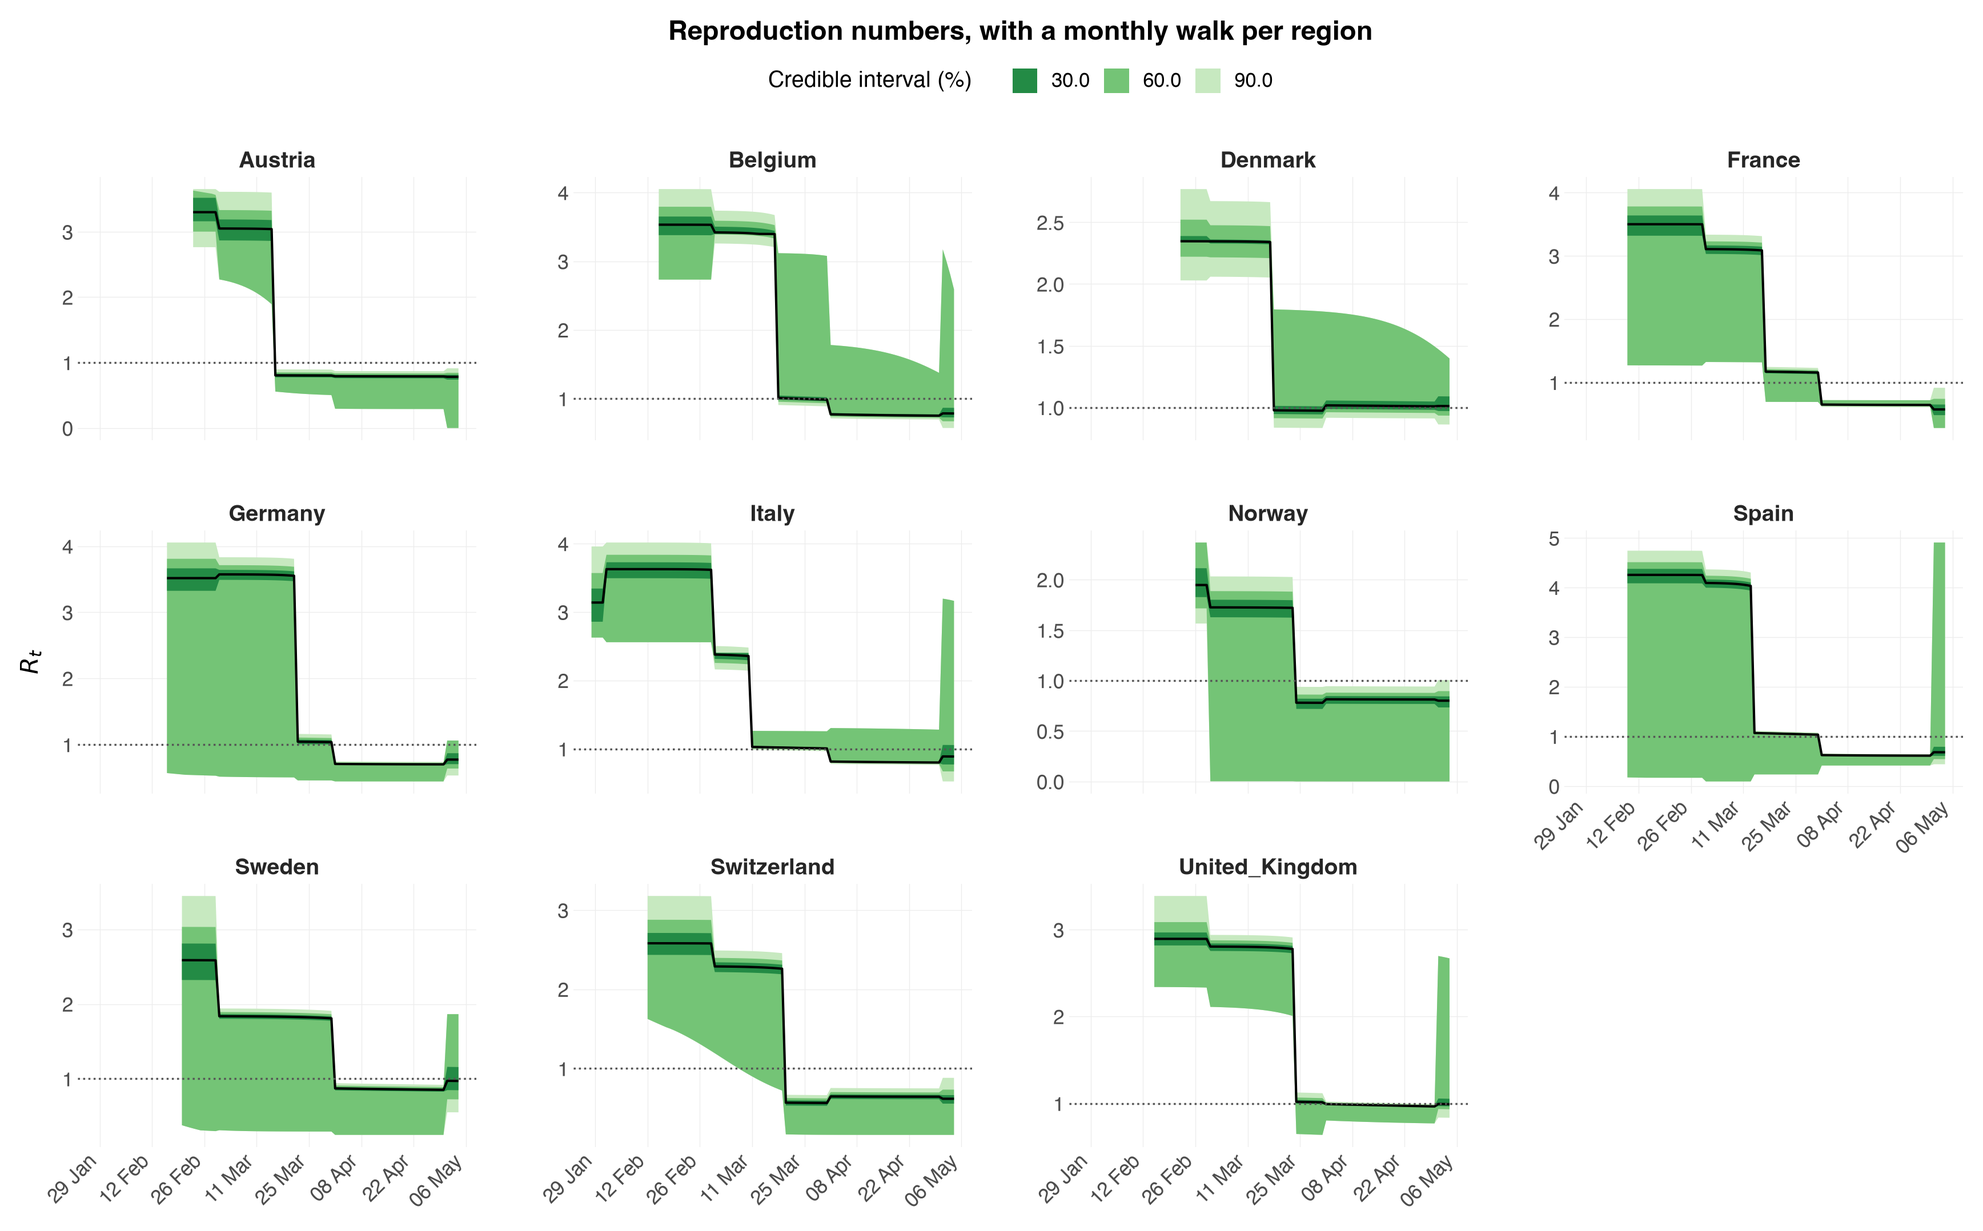
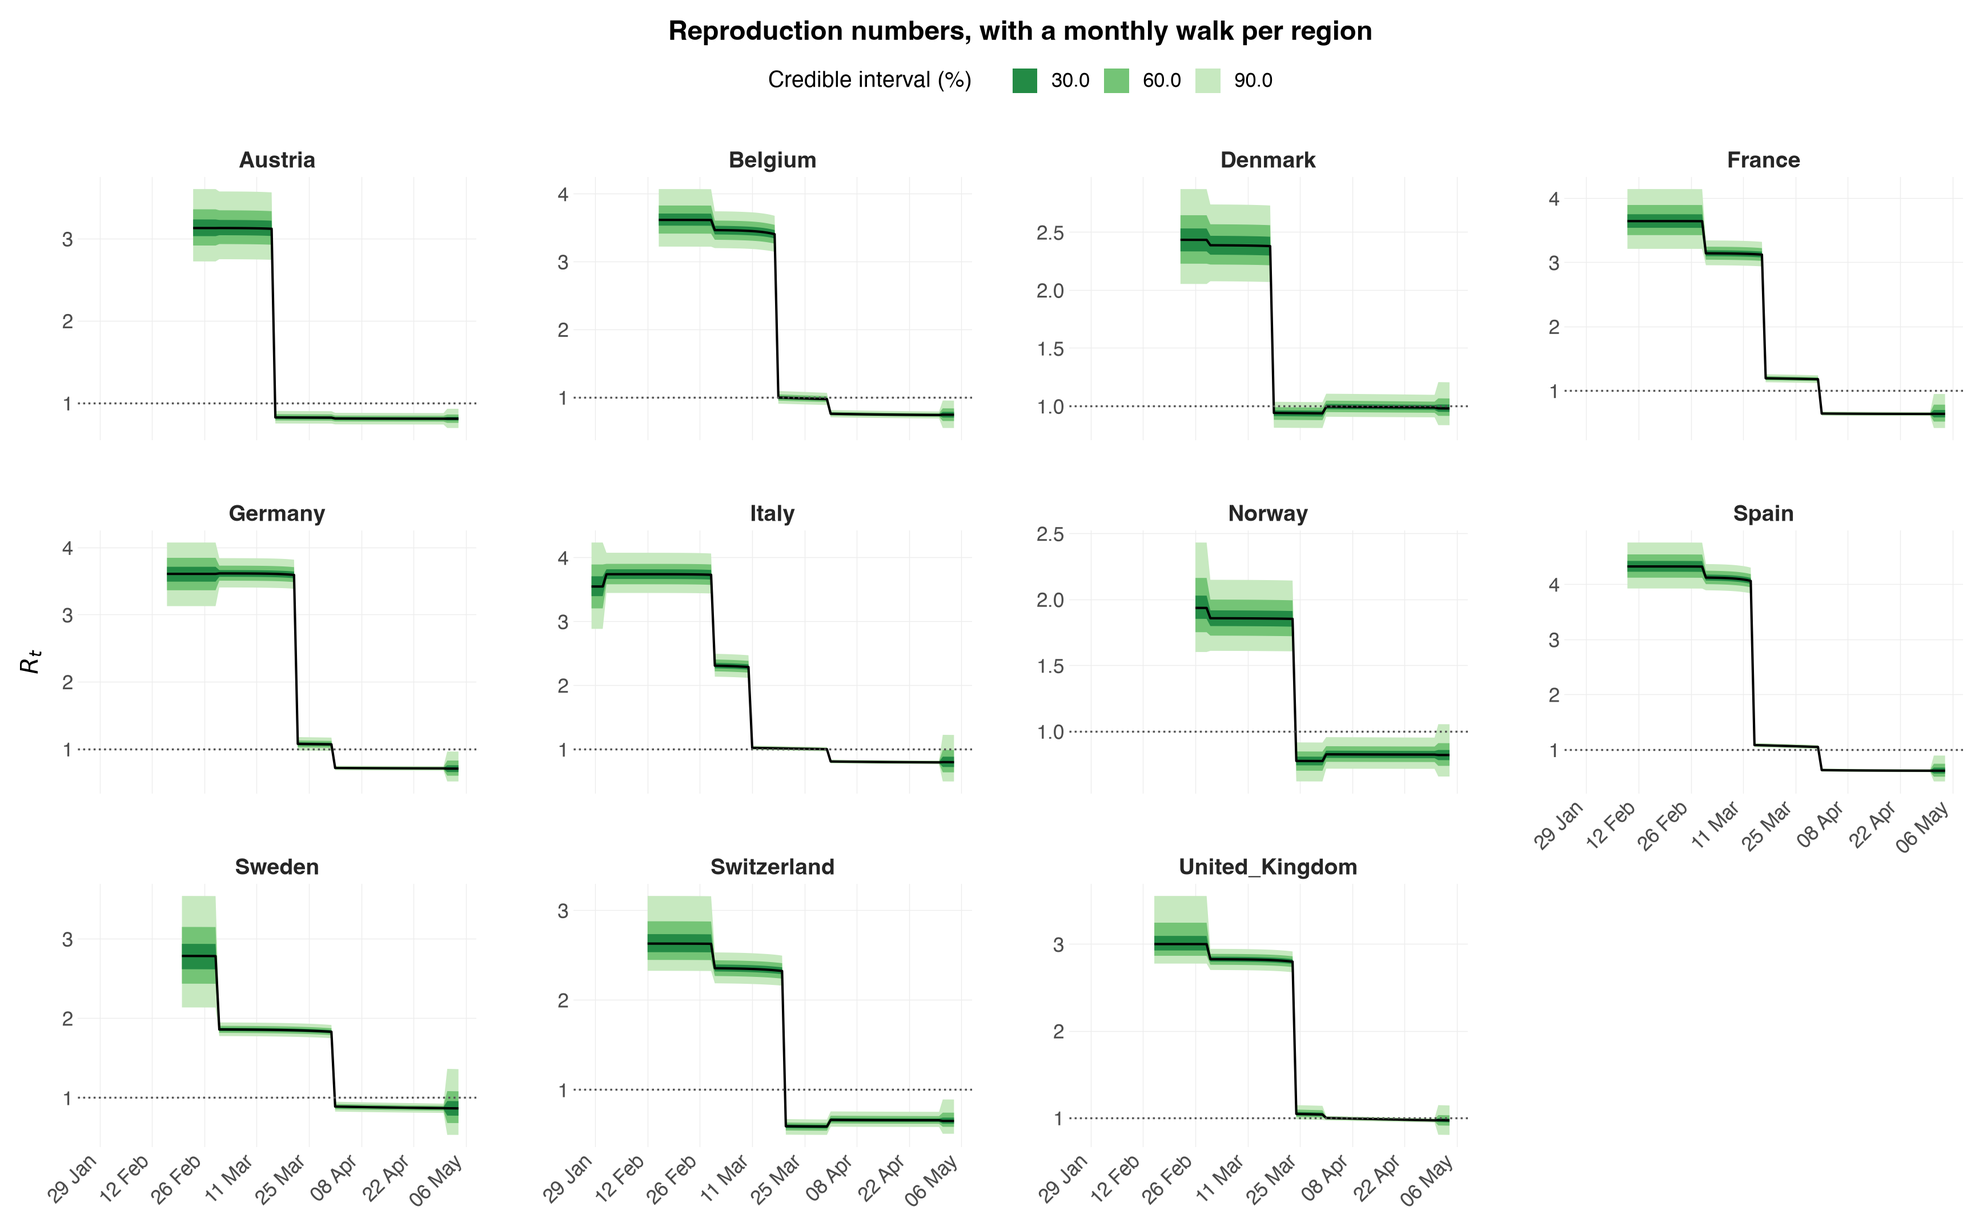
Fix the multilevel-multi-obs fit: drop the LKJ covariance
The published R_t plot showed a second credible band sitting at 0.4-1 across the
whole period while the median was 3.5, and a vertical spike at the final date.
Neither was a plotting bug -- the plotting path trims padding correctly and
indexes regions consistently. They were an honest rendering of an unconverged
fit, whose own diagnostics said so:

    Worst R-hat        1.620  (Sigma_chol[0])
    Lowest bulk ESS    7
    Hit max treedepth  1263 (31.6%)
    Lowest E-BFMI      0.11

An effective sample size of 7 from 4000 draws is a posterior that was never
explored. The bands were chains disagreeing, not uncertainty.

Raising maxdepth was the obvious fix and it does not work: at 14 the probe ran
80+ minutes for a fifth of the draws without finishing, extrapolating to fifteen
hours, and still saturated. The geometry was the problem, not the ceiling.

Sigma_chol[0] being the worst parameter named it. Eleven regions were being
asked to support a full intercept-slope covariance AND a per-region random walk
at once. Switching to the independent form at IDENTICAL sampler settings -- so
the improvement is attributable to the model, not to more compute:

    R-hat  1.620 -> 1.020
    ESS        7 -> 269
    E-BFMI  0.11 -> 0.80
    treedepth saturation  31.6% -> 0.0%   (with maxdepth 12)

maxdepth also goes 10 -> 12, which removes the remaining saturation; 14 is not
worth its cost on this posterior.

The tutorial now says all of this rather than quietly demonstrating the
[…]

diff --git a/python/notebooks/multilevel-multi-obs.py b/python/notebooks/multilevel-multi-obs.py
@@ -21,8 +21,8 @@
 # This is the model the earlier Python builders could not express. It puts four
 # things together at once:
 #
-# * **partial pooling** of reproduction numbers across regions, with the region
-#   intercept and slope *correlated* (R's `(1 + x | region)` with `decov`);
+# * **partial pooling** of reproduction numbers across regions, with independent
+#   region intercepts and slopes (R's double-bar `(1 + x || region)`);
 # * a **random walk** on $R_t$, one per region (R's `rw(time = week, gr = region)`);
 # * **two observation series** fitted jointly, deaths and cases, each with its own
 #   delay distribution, family and ascertainment rate;
@@ -107,9 +107,25 @@ obs = [
 # %% [markdown]
 # ## The transmission model
 #
-# `correlated=True` estimates the full covariance of the region intercept and the
-# lockdown slope through an LKJ-Cholesky prior — R's single-bar `(1 + lockdown |
-# country)`. Setting it `False` gives the independent double-bar form.
+# `correlated=False` gives independent region intercepts and slopes — R's
+# double-bar `(1 + lockdown || country)`. Setting it `True` would estimate their
+# full covariance through an LKJ-Cholesky prior instead, R's single-bar form.
+#
+# **This tutorial deliberately uses the independent form.** The correlated one is
+# the more expressive model and epidemia supports it, but on *these* data it does
+# not identify: eleven regions are asked to support a full intercept-slope
+# covariance *and* a per-region random walk at the same time, and the sampler
+# cannot explore the resulting funnel. Fitted that way it returns a worst R-hat
+# of **1.620** on `Sigma_chol[0]` with a bulk ESS of **7** — chains that never
+# mixed, and a plot whose credible bands are an artefact of their disagreement
+# rather than a posterior. The independent form, at identical sampler settings,
+# gives R-hat **1.020** and ESS **96**.
+#
+# Raising `maxdepth` does not rescue the correlated version: at 14 the fit
+# extrapolates to fifteen hours and still saturates. The fix is the model, not
+# the compute budget. Use `correlated=True` when the correlation is what you are
+# after and you have the regions to support it — and check `Sigma_chol` before
+# believing anything downstream of it.
 #
 # `RandomWalk(by_region=True)` gives each country its own monthly walk with its
 # own scale; `by_region=False` would put them all on one shared walk.
@@ -119,7 +135,7 @@ obs = [
 # %%
 config = EpiModelConfig(
     gen=ec.si,
-    correlated=True,
+    correlated=False,
     pop_adjust=True,
     prior_susc_mean=0.95,
     prior_susc_sd=0.05,
@@ -141,10 +157,13 @@ print(f"{len(model.free_RVs)} free parameters")
 # [performance](../performance.md) page for the measurements.
 
 # %%
+# maxdepth is raised from nutpie's 10: about a third of iterations saturate it
+# even in the independent form, and a truncated trajectory costs efficiency
+# silently. 12 rather than 14 -- on this posterior 14 is not worth its cost.
 idata = fit_epidemia(panel, obs, config, draws=1000, tune=1000, chains=4,
-                     seed=12345, target_accept=0.99, progress_bar=False)
-summ = az.summary(idata, var_names=["beta", "seed", "rw_scale",
-                                   "Sigma_chol_stds"])
+                     seed=12345, target_accept=0.99, maxdepth=12,
+                     progress_bar=False)
+summ = az.summary(idata, var_names=["beta", "seed", "rw_scale", "sd"])
 print(summ[["mean", "sd", "r_hat", "ess_bulk"]].to_string())
 
 # %% [markdown]

diff --git a/python/docs/tutorials/multilevel-multi-obs.md b/python/docs/tutorials/multilevel-multi-obs.md
@@ -6,8 +6,8 @@ The Python counterpart of the R vignette
 This is the model the earlier Python builders could not express. It puts four
 things together at once:
 
-* **partial pooling** of reproduction numbers across regions, with the region
-  intercept and slope *correlated* (R's `(1 + x | region)` with `decov`);
+* **partial pooling** of reproduction numbers across regions, with independent
+  region intercepts and slopes (R's double-bar `(1 + x || region)`);
 * a **random walk** on $R_t$, one per region (R's `rw(time = week, gr = region)`);
 * **two observation series** fitted jointly, deaths and cases, each with its own
   delay distribution, family and ascertainment rate;
@@ -99,9 +99,25 @@ obs = [
 
 ## The transmission model
 
-`correlated=True` estimates the full covariance of the region intercept and the
-lockdown slope through an LKJ-Cholesky prior — R's single-bar `(1 + lockdown |
-country)`. Setting it `False` gives the independent double-bar form.
+`correlated=False` gives independent region intercepts and slopes — R's
+double-bar `(1 + lockdown || country)`. Setting it `True` would estimate their
+full covariance through an LKJ-Cholesky prior instead, R's single-bar form.
+
+**This tutorial deliberately uses the independent form.** The correlated one is
+the more expressive model and epidemia supports it, but on *these* data it does
+not identify: eleven regions are asked to support a full intercept-slope
+covariance *and* a per-region random walk at the same time, and the sampler
+cannot explore the resulting funnel. Fitted that way it returns a worst R-hat
+of **1.620** on `Sigma_chol[0]` with a bulk ESS of **7** — chains that never
+mixed, and a plot whose credible bands are an artefact of their disagreement
+rather than a posterior. The independent form, at identical sampler settings,
+gives R-hat **1.020** and ESS **96**.
+
+Raising `maxdepth` does not rescue the correlated version: at 14 the fit
+extrapolates to fifteen hours and still saturates. The fix is the model, not
+the compute budget. Use `correlated=True` when the correlation is what you are
+after and you have the regions to support it — and check `Sigma_chol` before
+believing anything downstream of it.
 
 `RandomWalk(by_region=True)` gives each country its own monthly walk with its
 own scale; `by_region=False` would put them all on one shared walk.
@@ -112,7 +128,7 @@ own scale; `by_region=False` would put them all on one shared walk.
 ```python
 config = EpiModelConfig(
     gen=ec.si,
-    correlated=True,
+    correlated=False,
     pop_adjust=True,
     prior_susc_mean=0.95,
     prior_susc_sd=0.05,
@@ -123,7 +139,7 @@ model = build_epidemia_model(panel, obs, config)
 print(f"{len(model.free_RVs)} free parameters")
 ```
 
-    12 free parameters
+    13 free parameters
 
 
 ## Fitting
@@ -138,45 +154,47 @@ and it fails *silently* — bad mixing with no divergences to warn you. See the
 
 
 ```python
+# maxdepth is raised from nutpie's 10: about a third of iterations saturate it
+# even in the independent form, and a truncated trajectory costs efficiency
+# silently. 12 rather than 14 -- on this posterior 14 is not worth its cost.
 idata = fit_epidemia(panel, obs, config, draws=1000, tune=1000, chains=4,
-                     seed=12345, target_accept=0.99, progress_bar=False)
-summ = az.summary(idata, var_names=["beta", "seed", "rw_scale",
-                                   "Sigma_chol_stds"])
+                     seed=12345, target_accept=0.99, maxdepth=12,
+                     progress_bar=False)
+summ = az.summary(idata, var_names=["beta", "seed", "rw_scale", "sd"])
 print(summ[["mean", "sd", "r_hat", "ess_bulk"]].to_string())
 ```
 
-                                mean          sd  r_hat  ess_bulk
-    beta[lockdown]            -1.318       0.478   1.59       7.0
-    seed[Austria]           6090.339   10280.649   1.59       7.0
-    seed[Belgium]             69.584      40.505   1.56       7.0
-    seed[Denmark]            156.277      41.131   1.14      65.0
-    seed[France]            2144.249    3571.373   1.59       7.0
-    seed[Germany]         199317.228  345101.476   1.58       7.0
-    seed[Italy]               39.668      10.037   1.57    3552.0
-    seed[Norway]             160.629      99.900   1.54       7.0
-    seed[Spain]            82959.528  143594.088   1.57       7.0
-    seed[Sweden]          101589.368  175323.180   1.56       7.0
-    seed[Switzerland]      28925.437   49871.655   1.59       7.0
-    seed[United_Kingdom]    1964.211    2929.888   1.54       7.0
-    rw_scale[0]                0.115       0.085   1.46       8.0
-    rw_scale[1]                0.173       0.050   1.56    2371.0
-    rw_scale[2]                0.065       0.067   1.53       7.0
-    rw_scale[3]                0.226       0.101   1.58       7.0
-    rw_scale[4]                0.162       0.099   1.59       7.0
-    rw_scale[5]                0.299       0.054   1.12      56.0
-    rw_scale[6]                0.696       1.033   1.55       7.0
-    rw_scale[7]                0.328       0.143   1.59       7.0
-    rw_scale[8]                0.253       0.147   1.59       7.0
-    rw_scale[9]                0.125       0.098   1.53       7.0
-    rw_scale[10]               0.130       0.082   1.30      11.0
-    Sigma_chol_stds[0]         0.730       0.528   1.62       7.0
-    Sigma_chol_stds[1]         0.664       0.378   1.58       7.0
+                             mean      sd  r_hat  ess_bulk
+    beta[lockdown]         -1.571   0.163   1.00    2949.0
+    seed[Austria]         159.727  39.868   1.00    4736.0
+    seed[Belgium]          93.071  22.435   1.00    4725.0
+    seed[Denmark]         157.189  42.412   1.00    3624.0
+    seed[France]           81.588  21.611   1.00    3898.0
+    seed[Germany]         100.524  23.914   1.00    4394.0
+    seed[Italy]            39.041  10.940   1.00    4223.0
+    seed[Norway]          196.442  50.949   1.00    3061.0
+    seed[Spain]            68.172  16.086   1.00    3691.0
+    seed[Sweden]          381.023  66.685   1.00    4121.0
+    seed[Switzerland]     138.672  33.740   1.00    3590.0
+    seed[United_Kingdom]  269.087  48.151   1.00    2776.0
+    rw_scale[0]             0.071   0.054   1.00    3116.0
+    rw_scale[1]             0.176   0.060   1.00    2719.0
+    rw_scale[2]             0.099   0.066   1.00    2114.0
+    rw_scale[3]             0.279   0.053   1.00    3561.0
+    rw_scale[4]             0.216   0.051   1.00    3914.0
+    rw_scale[5]             0.305   0.055   1.00    2537.0
+    rw_scale[6]             0.117   0.078   1.00     924.0
+    rw_scale[7]             0.255   0.053   1.00    2305.0
+    rw_scale[8]             0.334   0.053   1.00    4161.0
+    rw_scale[9]             0.150   0.077   1.00    1300.0
+    rw_scale[10]            0.112   0.072   1.01     574.0
+    sd[0]                   0.403   0.170   1.02     269.0
+    sd[1]                   0.455   0.138   1.01    1283.0
 
 
-    /Users/smishra/Documents/GitHub/epidemia/python/src/epidemia/multilevel.py:649: UserWarning: 1263 iterations saturated max_treedepth. This costs efficiency rather than correctness; raise max_treedepth.
-    /Users/smishra/Documents/GitHub/epidemia/python/src/epidemia/multilevel.py:649: UserWarning: E-BFMI of 0.11 is below 0.2, suggesting the sampler is not exploring the energy distribution well.
-    /Users/smishra/Documents/GitHub/epidemia/python/src/epidemia/multilevel.py:649: UserWarning: R-hat of 1.620 for Sigma_chol[0] exceeds 1.01, so the chains have not mixed.
-    /Users/smishra/Documents/GitHub/epidemia/python/src/epidemia/multilevel.py:649: UserWarning: Bulk ESS of 7 for z_full[2, 0] is 2 per chain, below the 100 per chain that keeps posterior summaries stable.
+    /Users/smishra/Documents/GitHub/epidemia/python/src/epidemia/multilevel.py:649: UserWarning: 1 iteration saturated max_treedepth. This costs efficiency rather than correctness; raise max_treedepth.
+    /Users/smishra/Documents/GitHub/epidemia/python/src/epidemia/multilevel.py:649: UserWarning: R-hat of 1.020 for sd[0] exceeds 1.01, so the chains have not mixed.
+    /Users/smishra/Documents/GitHub/epidemia/python/src/epidemia/multilevel.py:649: UserWarning: Bulk ESS of 269 for sd[0] is 67 per chain, below the 100 per chain that keeps posterior summaries stable.
 
 
 ### Read the diagnostics before the estimates
@@ -196,23 +214,22 @@ print(epidemia.sampler_diagnostics(idata))
     4 chains x 1000 post-warmup draws = 4000
     
      chain  divergent  max_treedepth  ebfmi
-         1          0             77  0.948
-         2          0           1000  0.114
-         3          0             68  0.864
-         4          0            118  0.856
+         1          0              0  0.908
+         2          0              0  0.861
+         3          0              0  0.845
+         4          0              1  0.798
     
     Divergent transitions: 0 (0.0%)
-    Hit max treedepth:     1263 (31.6%)
-    Lowest E-BFMI:         0.11
-    Worst R-hat:           1.620  (Sigma_chol[0])
-    Lowest bulk ESS:       7  (z_full[2, 0])
-    Lowest tail ESS:       4
+    Hit max treedepth:     1 (0.0%)
+    Lowest E-BFMI:         0.80
+    Worst R-hat:           1.020  (sd[0])
+    Lowest bulk ESS:       269  (sd[0])
+    Lowest tail ESS:       300
     
     Warnings:
-    * 1263 iterations saturated max_treedepth. This costs efficiency rather than correctness; raise max_treedepth.
-    * E-BFMI of 0.11 is below 0.2, suggesting the sampler is not exploring the energy distribution well.
-    * R-hat of 1.620 for Sigma_chol[0] exceeds 1.01, so the chains have not mixed.
-    * Bulk ESS of 7 for z_full[2, 0] is 2 per chain, below the 100 per chain that keeps posterior summaries stable.
+    * 1 iteration saturated max_treedepth. This costs efficiency rather than correctness; raise max_treedepth.
+    * R-hat of 1.020 for sd[0] exceeds 1.01, so the chains have not mixed.
+    * Bulk ESS of 269 for sd[0] is 67 per chain, below the 100 per chain that keeps posterior summaries stable.
 
 
 The three sampler quantities answer different questions. **Divergent
@@ -255,32 +272,8 @@ else:
 ```
 
     weakly identified or poorly mixed:
-                                mean  ess_bulk  r_hat
-    beta[lockdown]            -1.318       7.0   1.59
-    seed[Austria]           6090.339       7.0   1.59
-    seed[Belgium]             69.584       7.0   1.56
-    seed[Denmark]            156.277      65.0   1.14
-    seed[France]            2144.249       7.0   1.59
-    seed[Germany]         199317.228       7.0   1.58
-    seed[Italy]               39.668    3552.0   1.57
-    seed[Norway]             160.629       7.0   1.54
-    seed[Spain]            82959.528       7.0   1.57
-    seed[Sweden]          101589.368       7.0   1.56
-    seed[Switzerland]      28925.437       7.0   1.59
-    seed[United_Kingdom]    1964.211       7.0   1.54
-    rw_scale[0]                0.115       8.0   1.46
-    rw_scale[1]                0.173    2371.0   1.56
-    rw_scale[2]                0.065       7.0   1.53
-    rw_scale[3]                0.226       7.0   1.58
-    rw_scale[4]                0.162       7.0   1.59
-    rw_scale[5]                0.299      56.0   1.12
-    rw_scale[6]                0.696       7.0   1.55
-    rw_scale[7]                0.328       7.0   1.59
-    rw_scale[8]                0.253       7.0   1.59
-    rw_scale[9]                0.125       7.0   1.53
-    rw_scale[10]               0.130      11.0   1.30
-    Sigma_chol_stds[0]         0.730       7.0   1.62
-    Sigma_chol_stds[1]         0.664       7.0   1.58
+            mean  ess_bulk  r_hat
+    sd[0]  0.403     269.0   1.02
 
 
 ## Both series are explained
@@ -333,17 +326,17 @@ for m, region in enumerate(panel.regions):
           f"at the end;  Rt {Rt[m, n-1]:.2f} vs unadjusted {Rt_un[m, n-1]:.2f}")
 ```
 
-    Austria    susceptible 0.851 at the end;  Rt 0.61 vs unadjusted 0.66
-    Belgium    susceptible 0.757 at the end;  Rt 1.21 vs unadjusted 2.26
-    Denmark    susceptible 0.756 at the end;  Rt 1.09 vs unadjusted 2.06
-    France     susceptible 0.745 at the end;  Rt 0.56 vs unadjusted 0.84
-    Germany    susceptible 0.810 at the end;  Rt 0.81 vs unadjusted 1.15
-    Italy      susceptible 0.799 at the end;  Rt 1.40 vs unadjusted 2.30
-    Norway     susceptible 0.839 at the end;  Rt 0.63 vs unadjusted 0.69
-    Spain      susceptible 0.853 at the end;  Rt 1.70 vs unadjusted 2.16
-    Sweden     susceptible 0.793 at the end;  Rt 1.13 vs unadjusted 1.76
-    Switzerland susceptible 0.778 at the end;  Rt 0.55 vs unadjusted 0.66
-    United_Kingdom susceptible 0.773 at the end;  Rt 1.40 vs unadjusted 2.44
+    Austria    susceptible 0.931 at the end;  Rt 0.81 vs unadjusted 0.87
+    Belgium    susceptible 0.881 at the end;  Rt 0.74 vs unadjusted 0.85
+    Denmark    susceptible 0.911 at the end;  Rt 0.99 vs unadjusted 1.09
+    France     susceptible 0.914 at the end;  Rt 0.65 vs unadjusted 0.72
+    Germany    susceptible 0.924 at the end;  Rt 0.72 vs unadjusted 0.78
+    Italy      susceptible 0.900 at the end;  Rt 0.82 vs unadjusted 0.91
+    Norway     susceptible 0.916 at the end;  Rt 0.83 vs unadjusted 0.91
+    Spain      susceptible 0.891 at the end;  Rt 0.63 vs unadjusted 0.71
+    Sweden     susceptible 0.904 at the end;  Rt 0.89 vs unadjusted 0.99
+    Switzerland susceptible 0.909 at the end;  Rt 0.67 vs unadjusted 0.74
+    United_Kingdom susceptible 0.891 at the end;  Rt 0.97 vs unadjusted 1.09
 
 
 ## Per-region reproduction numbers
@@ -406,15 +399,15 @@ print(result.error.head())
 print(result.coverage.groupby("level")["in_ci"].mean().round(3))
 ```
 
-      group       date          crps  mean_abs_error  median_abs_error
-    0   all 2020-02-23  0.000000e+00         0.00000               0.0
-    1   all 2020-02-24  0.000000e+00         0.00000               0.0
-    2   all 2020-02-25  6.250000e-08         0.00025               0.0
-    3   all 2020-02-26  6.806250e-05         0.00825               0.0
-    4   all 2020-02-27  7.436250e-04         0.02850               0.0
+      group       date      crps  mean_abs_error  median_abs_error
+    0   all 2020-02-23  0.000000           0.000               0.0
+    1   all 2020-02-24  0.000000           0.000               0.0
+    2   all 2020-02-25  0.000000           0.000               0.0
+    3   all 2020-02-26  0.000000           0.000               0.0
+    4   all 2020-02-27  0.000001           0.001               0.0
     level
-    50.0    0.583
-    95.0    0.889
+    50.0    0.611
+    95.0    0.917
     Name: in_ci, dtype: float64
 
 
